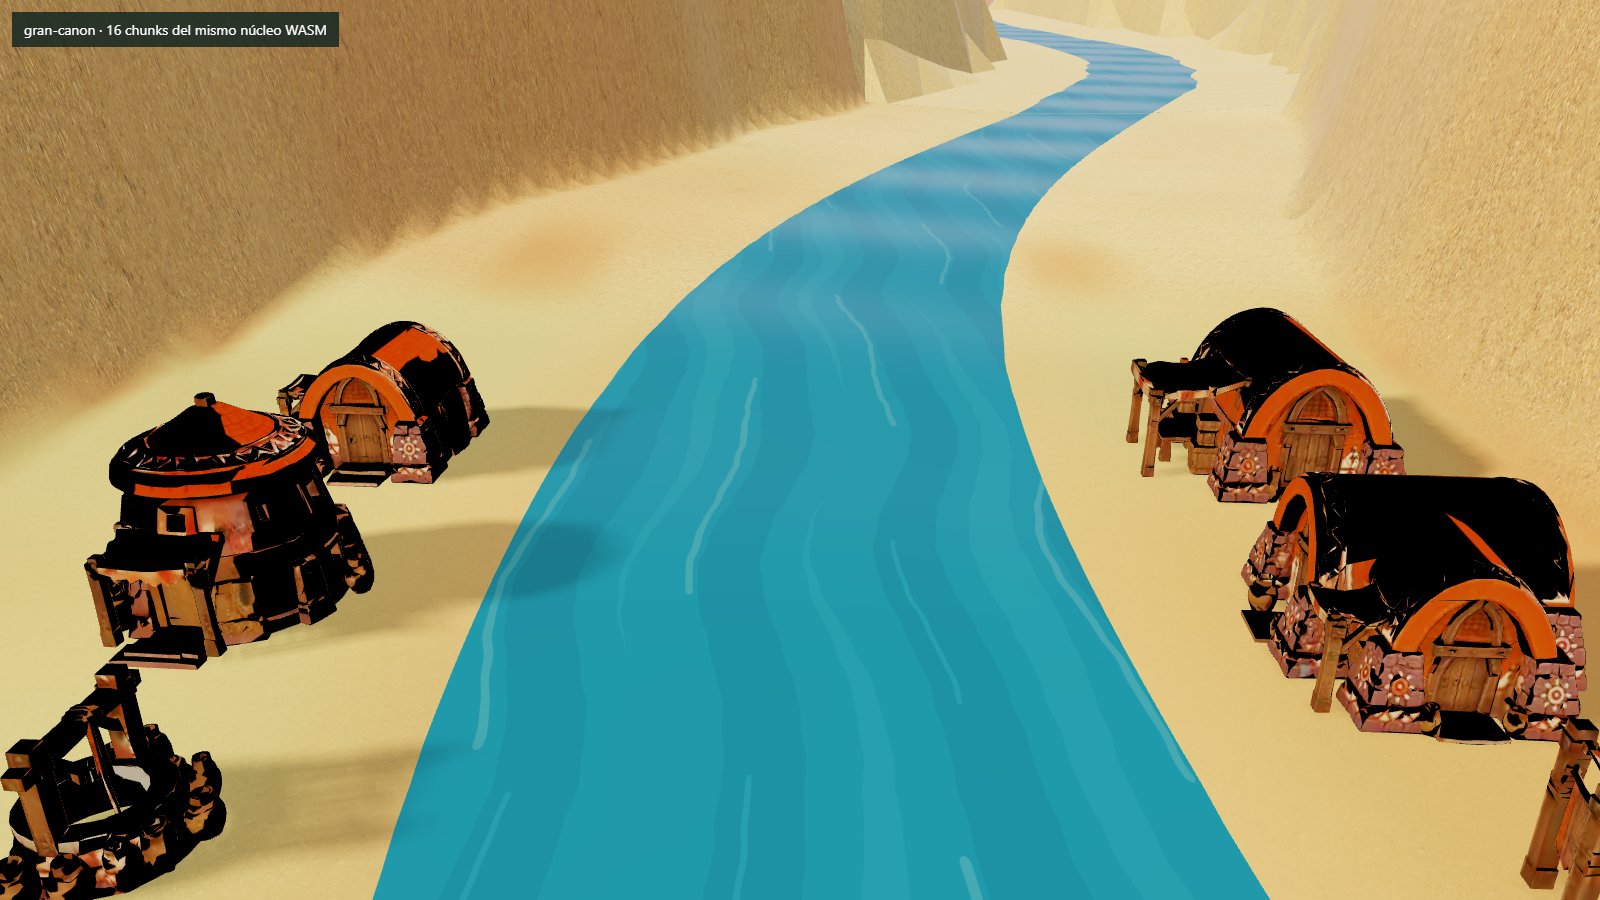
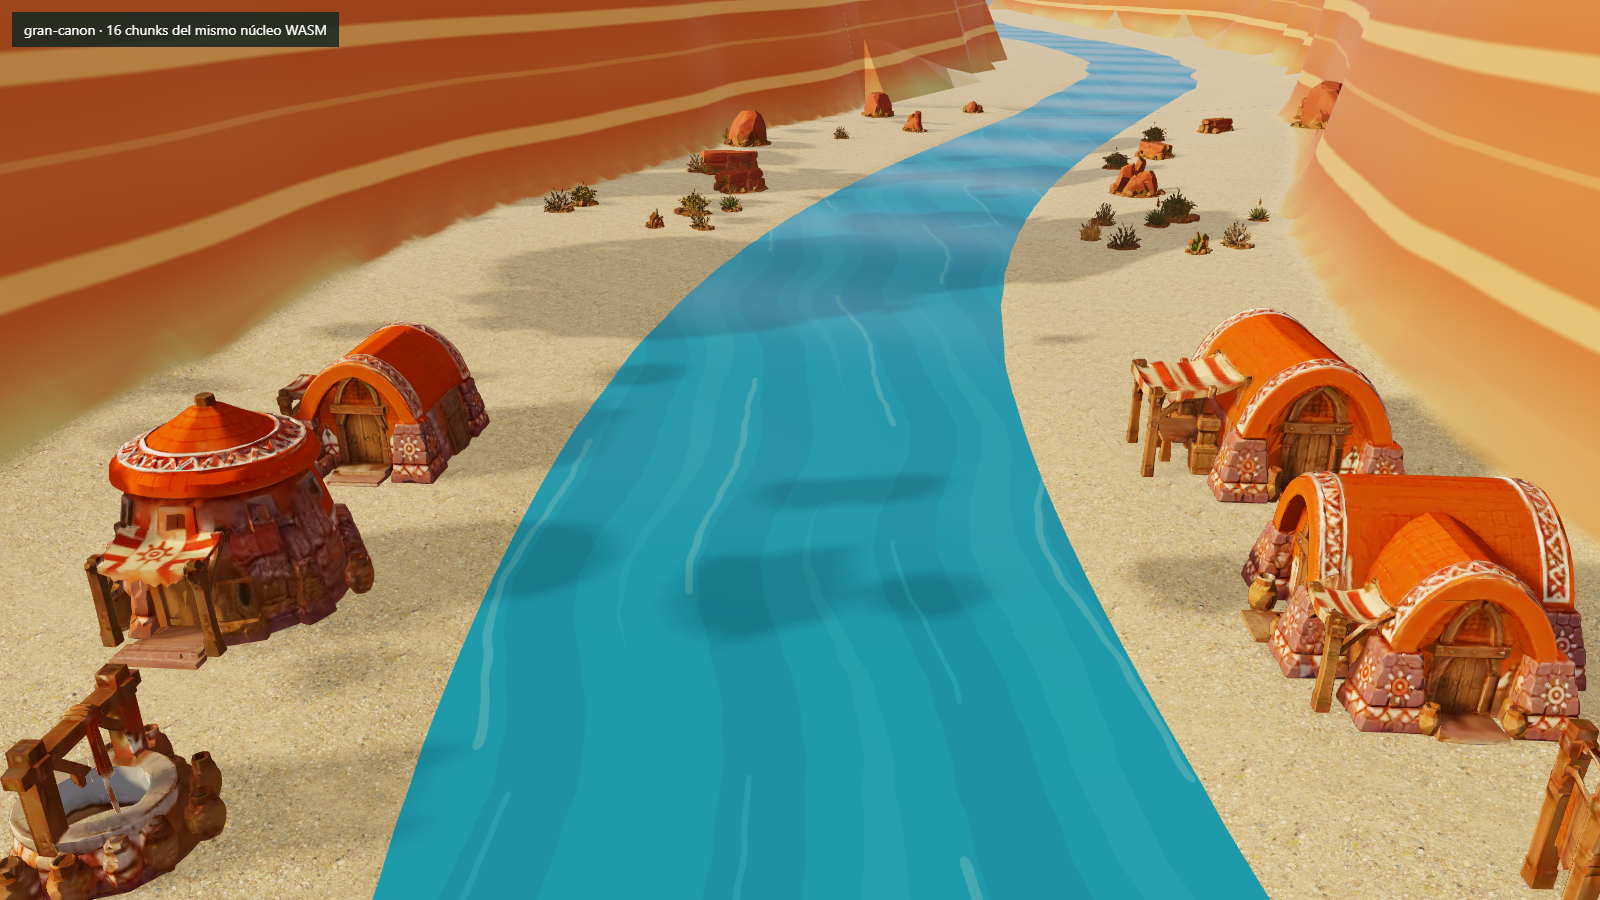
fix(spatial): capture rendered native vegetation in QA

diff --git a/tests/browser/spatial-scene-load.html b/tests/browser/spatial-scene-load.html
@@ -35,8 +35,7 @@ try{
   const navigation=createSpatialNavigationMovement(session,state);
   await scene.load(state,navigation,payload,{spatialSession:session,farVegetation:false});
   const sceneReady=performance.now();
-  scene.resize();scene.sync(0);scene.updateCamera();
-  scene.renderer.render(scene.scene,scene.camera);
+  scene.resize();scene.render(0);
   const terrainChunks=[...scene.chunks.values()].filter(group=>group.userData?.spatialAuthority==='spatial-wasm').length;
   if(terrainChunks<1||terrainChunks!==scene.chunks.size||
      scene.nav.field!==session.field||scene.chunkStream!==session.stream||
@@ -44,6 +43,8 @@ try{
     throw Error('Scene did not adopt the authoritative native world');
   window.qaStats={biome,seed,startAttempts:start.attempts,terrainChunks,
     loadedChunks:session.core.metrics().loadedChunks,
+    nativeProps:[...scene.chunks.values()].reduce((sum,group)=>
+      sum+group.userData.propSources.flat().length,0),
     sectorUpdates:session.core.metrics().sectorUpdates,
     horizon:Boolean(scene.horizon?.group),
     memoryBytes:session.core.metrics().memoryBytes,

diff --git a/docs/qa/hierarchical-navigation/spatial-authority-prototype.md b/docs/qa/hierarchical-navigation/spatial-authority-prototype.md
@@ -277,6 +277,6 @@ For large target sets, `actorRegionsBatch` classifies up to 4,096 positions per 
 
 An opt-in `WorldScene.load(..., {spatialSession})` now uses the same native session for its terrain field, resident chunk stream and C++-backed far horizon. It rejects a mismatched navigation field instead of silently combining two worlds. The normal `WorldScene.load` path and game startup still use the JavaScript generator. A browser fixture instantiates a new game, finds its native initial site, creates one spatial session and loads the **production Three.js scene class** without a JavaScript `TerrainField` or `NativeChunkStream`. Its native movement adapter also exposes resident C++ chunk payloads for consumers of the old navigation-shaped API and rejects an unloaded chunk instead of generating a second world. A focused regression checks that contract.
 
-The [real-browser capture report](screenshots/single-spatial-scene-capture-report.json) and screenshots for [Sabana](screenshots/sabana-seed-712-single-spatial-scene-1600x900.png), [Gran Cañón](screenshots/gran-canon-seed-712-single-spatial-scene-1600x900.png) and [Desierto](screenshots/desierto-seed-712-single-spatial-scene-1600x900.png) show 15–16 installed native chunks per scene, with no JavaScript page or HTTP errors. Gran Cañón and Desierto also built the far horizon from the native terrain snapshot. The images are a technical integration check, not visual acceptance: this fixture deliberately disables far vegetation, so its worlds are sparse, and does not exercise camera travel or gameplay. In one headless desktop run, initial-site search took about 100 ms in Sabana, 3.67 s in Gran Cañón's difficult 11-candidate case, and 79 ms in Desierto. Spatial-session setup then took 46–76 ms. The subsequent full scene load took 5.46–5.89 s, including ordinary model/material preparation and rendering setup; those figures must not be attributed solely to native chunk generation. The fixture has no matched JavaScript-world timing or mobile measurement, so it does not yet establish an end-to-end speedup. Its purpose is to prove that one C++ world can reach the real scene without resurrecting a parallel JS terrain source.
+The [real-browser capture report](screenshots/single-spatial-scene-capture-report.json) and screenshots for [Sabana](screenshots/sabana-seed-712-single-spatial-scene-1600x900.png), [Gran Cañón](screenshots/gran-canon-seed-712-single-spatial-scene-1600x900.png) and [Desierto](screenshots/desierto-seed-712-single-spatial-scene-1600x900.png) show 15–16 installed native chunks per scene, with no JavaScript page or HTTP errors. The ordinary scene render loop also activates LOD for 3,191, 1,422 and 148 native prop instances, respectively; bypassing that loop would yield misleadingly empty screenshots. Gran Cañón and Desierto built the far horizon from the native terrain snapshot. The images are a technical integration check, not visual acceptance: this fixture deliberately disables far vegetation and does not exercise camera travel or gameplay. In one headless desktop run, initial-site search took about 97 ms in Sabana, 3.50 s in Gran Cañón's difficult 11-candidate case, and 84 ms in Desierto. Spatial-session setup then took 44–76 ms. The subsequent full scene load took 5.46–5.88 s, including ordinary model/material preparation and rendering setup; those figures must not be attributed solely to native chunk generation. The fixture has no matched JavaScript-world timing or mobile measurement, so it does not yet establish an end-to-end speedup. Its purpose is to prove that one C++ world can reach the real scene without resurrecting a parallel JS terrain source.
 
 The remaining integration risks are the normal game startup, far vegetation for the other biomes, raid target selection, save/reload, and sustained 14-night campaigns before longer runs. The native C++ generator can produce different worlds by design; physical correspondence among its visible objects, collisions and routes still needs full gameplay QA. No production switch or merge is justified by these captures alone.
